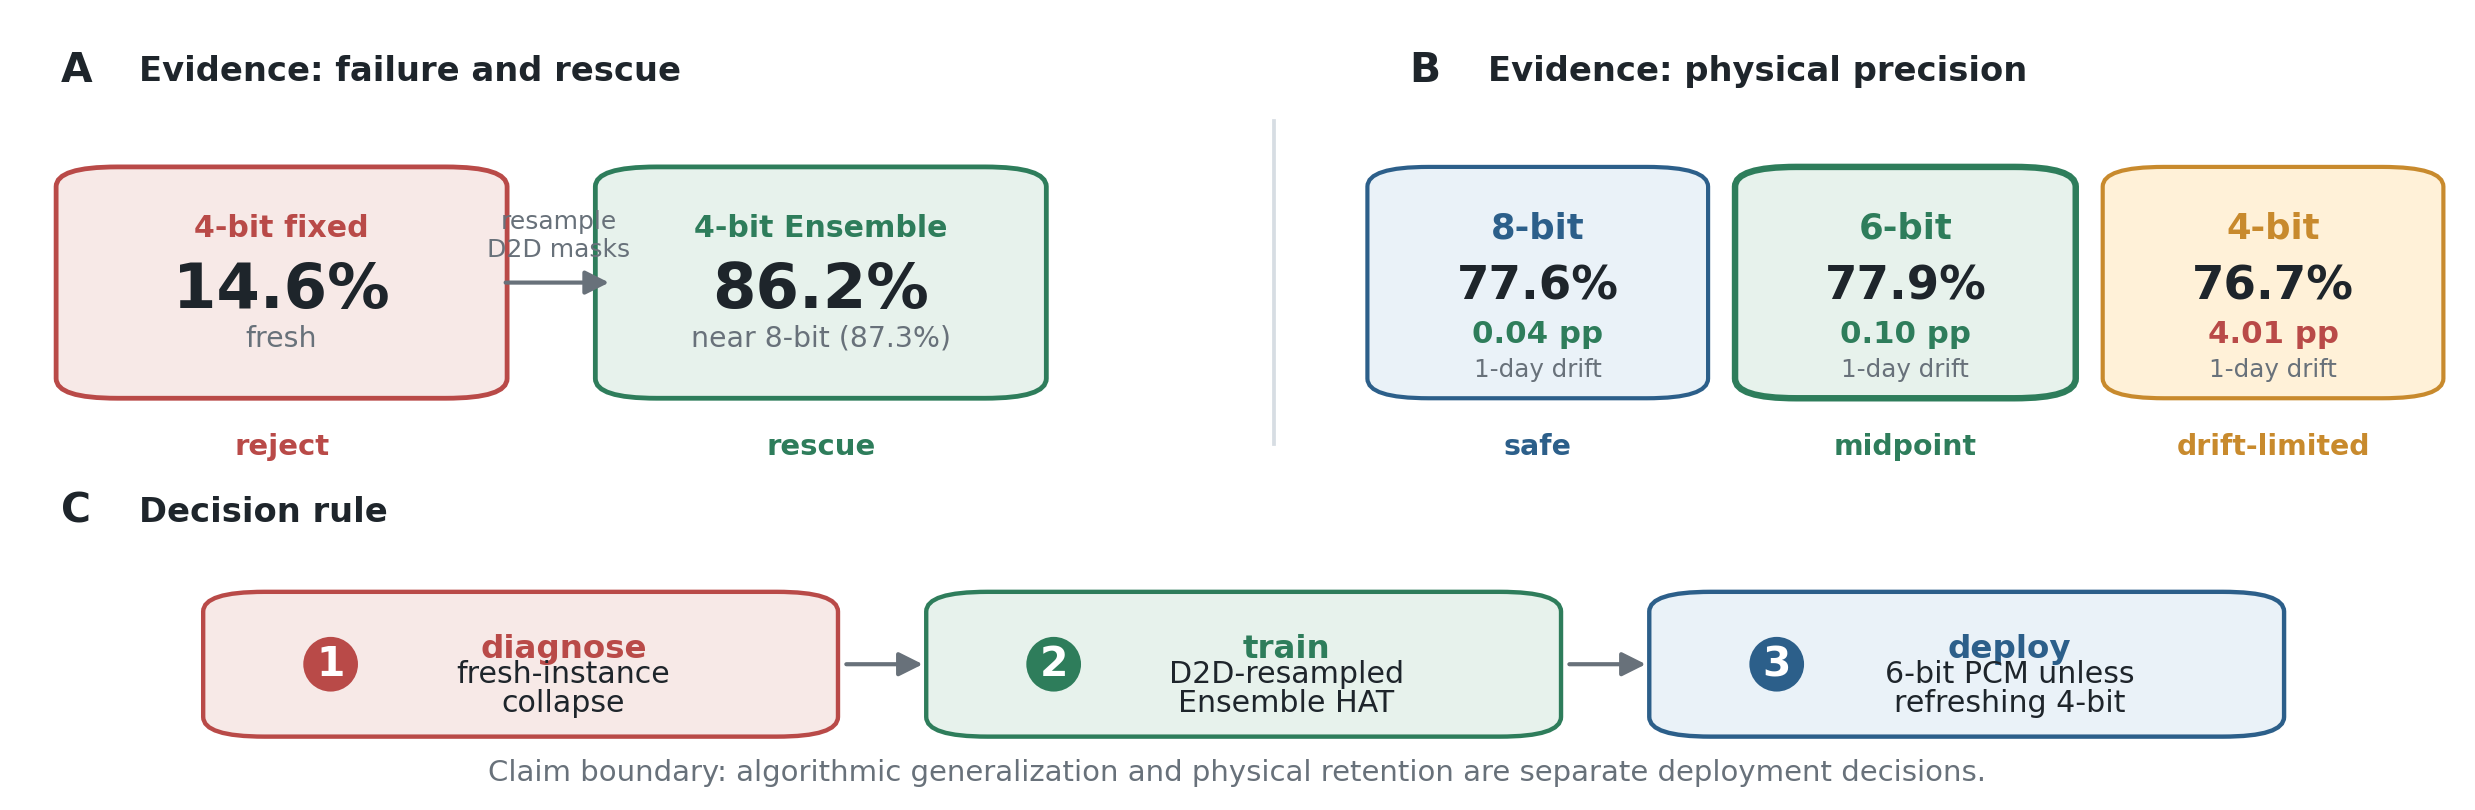
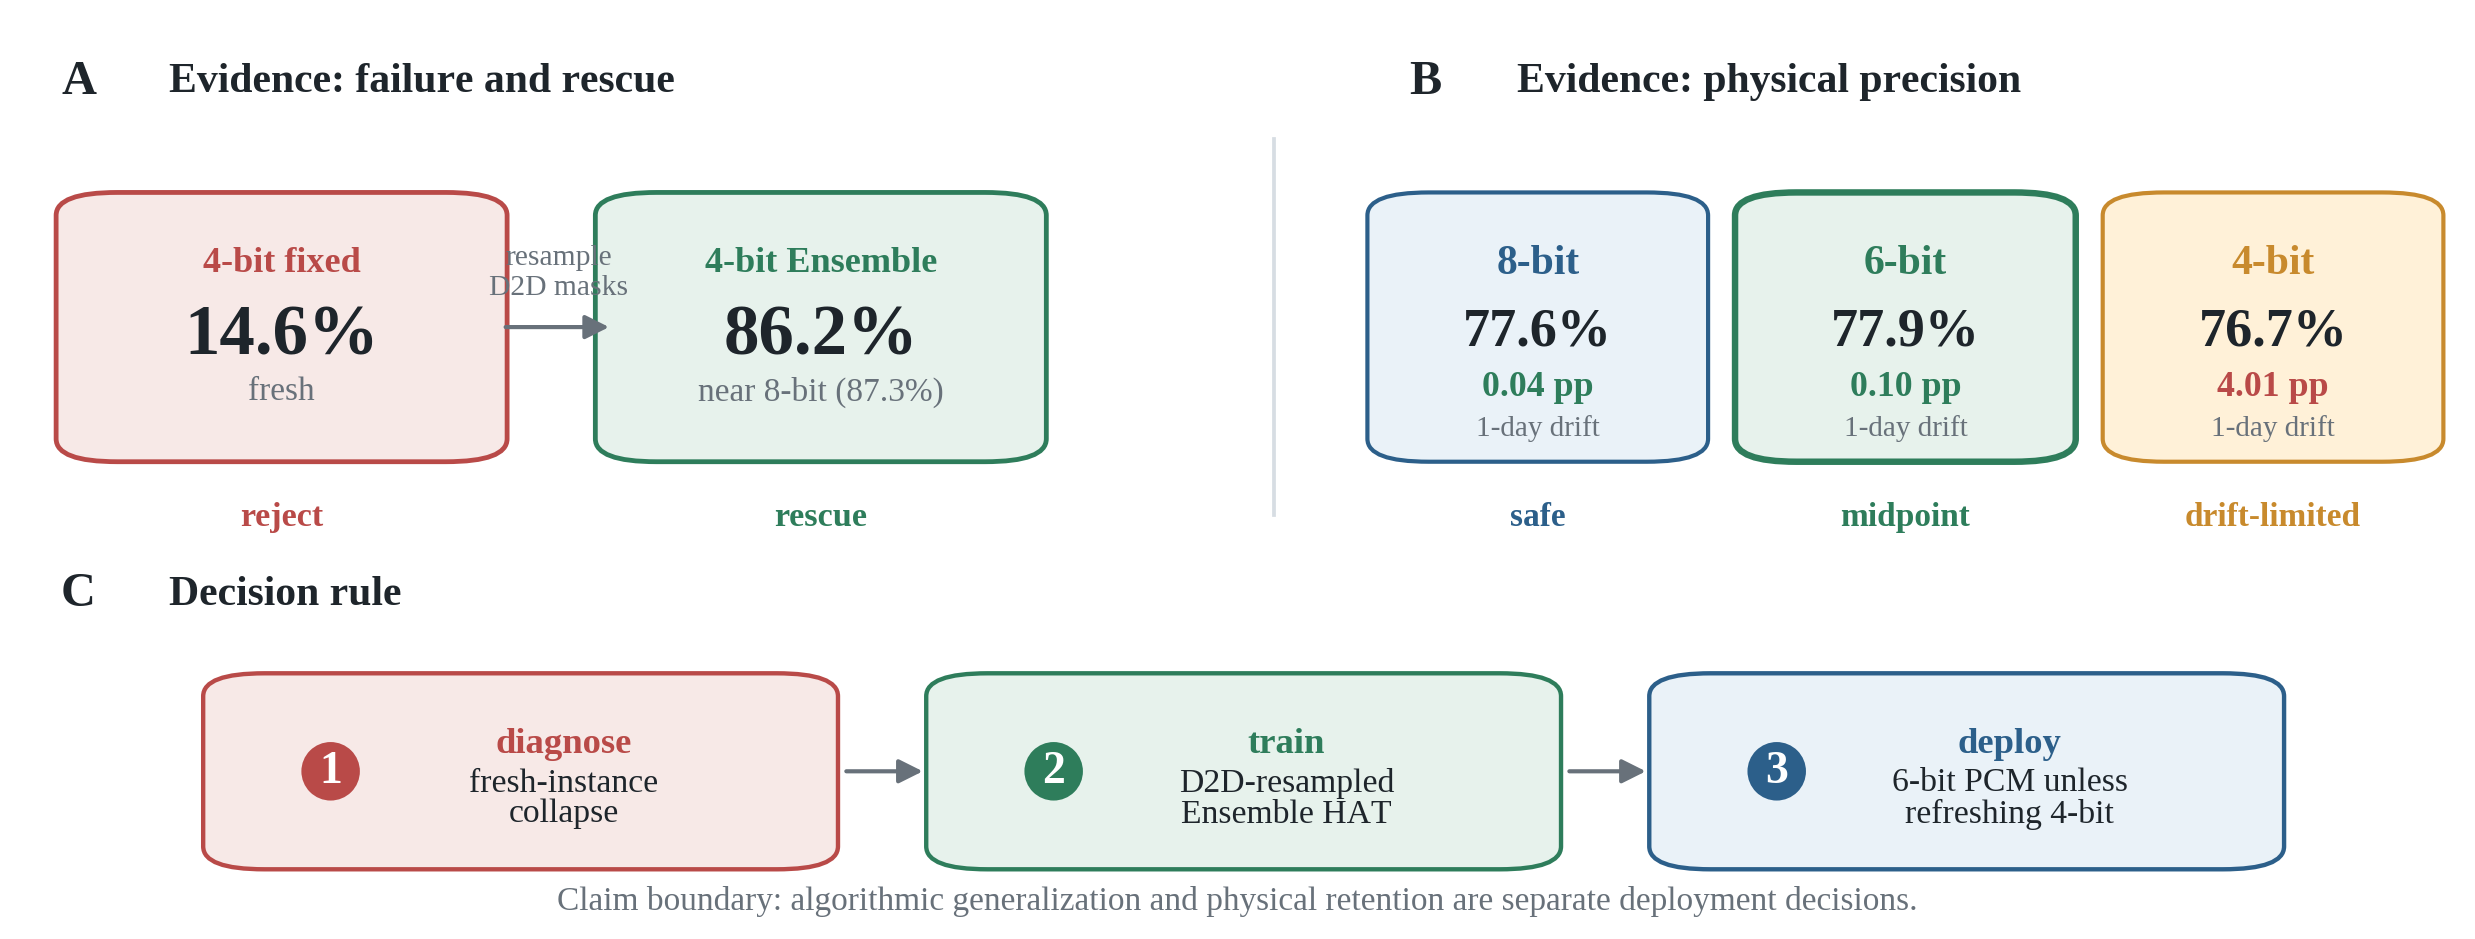
docs(paper1): enlarge main figure typography

diff --git a/scripts/_gpt/plot_paper1_spine.py b/scripts/_gpt/plot_paper1_spine.py
@@ -9,12 +9,17 @@ from pathlib import Path
 
 import matplotlib.pyplot as plt
 import numpy as np
+from matplotlib import font_manager
 from matplotlib.patches import FancyArrowPatch, FancyBboxPatch
 
 ROOT = Path(__file__).resolve().parents[2]
 FIG_DIR = ROOT / "paper" / "latex_gpt" / "figures"
 SRC_DIR = ROOT / "paper" / "latex_gpt" / "source_data"
 CKPT = ROOT / "paper2_aihwkit_baseline" / "checkpoints"
+TINOS_DIR = Path("/usr/share/fonts/truetype/croscore")
+
+for font_file in TINOS_DIR.glob("Tinos-*.ttf"):
+    font_manager.fontManager.addfont(str(font_file))
 
 FIG_DIR.mkdir(parents=True, exist_ok=True)
 SRC_DIR.mkdir(parents=True, exist_ok=True)
@@ -143,12 +148,14 @@ with (SRC_DIR / "manifest_paper1_spine.json").open("w", encoding="utf-8") as han
 
 plt.rcParams.update(
     {
-        "font.family": "DejaVu Sans",
-        "font.size": 8.0,
-        "axes.labelsize": 8.0,
-        "axes.titlesize": 8.4,
-        "xtick.labelsize": 7.2,
-        "ytick.labelsize": 7.2,
+        "font.family": "Tinos",
+        "font.serif": ["Tinos", "Times New Roman", "Nimbus Roman", "Liberation Serif", "DejaVu Serif"],
+        "mathtext.fontset": "stix",
+        "font.size": 9.2,
+        "axes.labelsize": 9.8,
+        "axes.titlesize": 10.0,
+        "xtick.labelsize": 8.7,
+        "ytick.labelsize": 8.7,
         "axes.linewidth": 0.75,
         "pdf.fonttype": 42,
         "ps.fonttype": 42,
@@ -157,8 +164,8 @@ plt.rcParams.update(
 
 
 def panel_header(ax, label: str, title: str, y: float = 1.04) -> None:
-    ax.text(0.0, y, label, transform=ax.transAxes, ha="left", va="bottom", fontsize=9.6, fontweight="bold", color=COL["ink"])
-    ax.text(0.075, y + 0.004, title, transform=ax.transAxes, ha="left", va="bottom", fontsize=8.1, fontweight="bold", color=COL["ink"])
+    ax.text(0.0, y, label, transform=ax.transAxes, ha="left", va="bottom", fontsize=11.3, fontweight="bold", color=COL["ink"])
+    ax.text(0.14, y + 0.004, title, transform=ax.transAxes, ha="left", va="bottom", fontsize=9.8, fontweight="bold", color=COL["ink"])
 
 
 def box(ax, x: float, y: float, w: float, h: float, text: str, fc: str, ec: str, fs: float = 7.5, weight: str = "bold") -> None:
@@ -195,7 +202,7 @@ def style_axis(ax) -> None:
     ax.tick_params(length=3, width=0.7, color=COL["ink"], labelcolor=COL["ink"])
 
 
-fig = plt.figure(figsize=(8.6, 3.05), facecolor="white")
+fig = plt.figure(figsize=(8.6, 3.65), facecolor="white")
 gs = fig.add_gridspec(1, 3, width_ratios=[1.42, 1.0, 1.0], wspace=0.36)
 ax_a = fig.add_subplot(gs[0, 0])
 ax_b = fig.add_subplot(gs[0, 1])
@@ -212,24 +219,24 @@ row_y = [0.62, 0.25]
 row_name = [("Fixed-mask HAT", COL["red"]), ("D2D-resampled HAT", COL["green"])]
 for idx, y in enumerate(row_y):
     label, color = row_name[idx]
-    ax_a.text(0.06, y + 0.205, label, ha="left", va="center", fontsize=7.5, color=color, fontweight="bold")
-    box(ax_a, 0.06, y, 0.18, 0.15, "digital\nweights", COL["gray_fill"], "#9DA5AD", fs=7.1)
+    ax_a.text(0.06, y + 0.205, label, ha="left", va="center", fontsize=8.8, color=color, fontweight="bold")
+    box(ax_a, 0.06, y, 0.18, 0.15, "digital\nweights", COL["gray_fill"], "#9DA5AD", fs=8.6)
     arrow(ax_a, 0.245, y + 0.075, 0.315, y + 0.075)
     if idx == 0:
-        box(ax_a, 0.32, y, 0.15, 0.15, "$M_0$", COL["red_fill"], COL["red"], fs=9.0)
+        box(ax_a, 0.32, y, 0.15, 0.15, "$M_0$", COL["red_fill"], COL["red"], fs=10.6)
         arrow(ax_a, 0.475, y + 0.075, 0.555, y + 0.075, color=COL["red"])
-        box(ax_a, 0.56, y, 0.18, 0.15, "fresh\nchip", COL["gold_fill"], COL["gold"], fs=7.1)
-        ax_a.text(0.78, y + 0.075, "fail", ha="left", va="center", fontsize=7.2, color=COL["red"], fontweight="bold")
+        box(ax_a, 0.56, y, 0.18, 0.15, "fresh\nchip", COL["gold_fill"], COL["gold"], fs=8.6)
+        ax_a.text(0.78, y + 0.075, "fail", ha="left", va="center", fontsize=8.3, color=COL["red"], fontweight="bold")
     else:
         for k, x0 in enumerate([0.305, 0.385, 0.465]):
-            box(ax_a, x0, y, 0.060, 0.15, f"$M_{k+1}$", COL["green_fill"], COL["green"], fs=7.0)
-        ax_a.text(0.535, y + 0.075, "$\cdots$", ha="center", va="center", fontsize=10.5, color=COL["green"])
+            box(ax_a, x0, y, 0.060, 0.15, f"$M_{k+1}$", COL["green_fill"], COL["green"], fs=8.2)
+        ax_a.text(0.535, y + 0.075, "$\cdots$", ha="center", va="center", fontsize=12.0, color=COL["green"])
         arrow(ax_a, 0.56, y + 0.075, 0.615, y + 0.075, color=COL["green"])
-        box(ax_a, 0.62, y, 0.18, 0.15, "fresh\nchip", COL["gold_fill"], COL["gold"], fs=7.1)
-        ax_a.text(0.835, y + 0.075, "pass", ha="left", va="center", fontsize=7.2, color=COL["green"], fontweight="bold")
+        box(ax_a, 0.62, y, 0.18, 0.15, "fresh\nchip", COL["gold_fill"], COL["gold"], fs=8.6)
+        ax_a.text(0.835, y + 0.075, "pass", ha="left", va="center", fontsize=8.3, color=COL["green"], fontweight="bold")
 
 ax_a.plot([0.02, 0.97], [0.50, 0.50], color=COL["rule"], linewidth=0.7)
-ax_a.text(0.06, 0.065, "Training distribution changes across hardware instances.", ha="left", va="center", fontsize=6.8, color=COL["muted"])
+ax_a.text(0.06, 0.065, "Train over hardware-instance distribution.", ha="left", va="center", fontsize=8.1, color=COL["muted"])
 
 # Panel B: failure/rescue data.
 labels = ["8-bit\nideal", "4-bit\nfixed", "4-bit\nEnsemble"]
@@ -245,7 +252,7 @@ ax_b.set_xticks(x)
 ax_b.set_xticklabels(labels)
 ax_b.axhline(10, color=COL["muted"], linestyle=(0, (1, 2)), linewidth=0.8)
 for i, v in enumerate(means):
-    ax_b.text(i, v + 3.0, f"{v:.1f}", ha="center", va="bottom", fontsize=7.6, fontweight="bold", color=COL["ink"])
+    ax_b.text(i, v + 3.0, f"{v:.1f}", ha="center", va="bottom", fontsize=8.8, fontweight="bold", color=COL["ink"])
 style_axis(ax_b)
 
 # Panel C: PCM precision/retention frontier.
@@ -264,7 +271,7 @@ ax_c.set_ylim(75.6, 79.2)
 ax_c.set_xticks(x2)
 ax_c.set_xticklabels(labels_pcm)
 for i, v in enumerate(fresh):
-    ax_c.text(i, v + 0.20, f"{v:.1f}", ha="center", va="bottom", fontsize=7.4, fontweight="bold", color=COL["ink"])
+    ax_c.text(i, v + 0.20, f"{v:.1f}", ha="center", va="bottom", fontsize=8.7, fontweight="bold", color=COL["ink"])
 style_axis(ax_c)
 
 ax_d = ax_c.twinx()
@@ -275,7 +282,7 @@ ax_d.tick_params(axis="y", colors="#7B2D2C", labelsize=7.0, length=3, width=0.7)
 ax_d.spines[["top"]].set_visible(False)
 for i, v in enumerate(drift):
     dy = 0.14 if v < 1 else 0.18
-    ax_d.text(i, v + dy, f"{v:.2f}", ha="center", va="bottom", fontsize=7.0, color="#7B2D2C", fontweight="bold")
+    ax_d.text(i, v + dy, f"{v:.2f}", ha="center", va="bottom", fontsize=8.6, color="#7B2D2C", fontweight="bold")
 
 for ext in ["pdf", "png"]:
     fig.savefig(FIG_DIR / f"fig1_paper1_spine.{ext}", dpi=300, bbox_inches="tight", pad_inches=0.04)

diff --git a/scripts/_gpt/plot_paper1_decision_map.py b/scripts/_gpt/plot_paper1_decision_map.py
@@ -7,13 +7,18 @@ import csv
 from pathlib import Path
 
 import matplotlib.pyplot as plt
+from matplotlib import font_manager
 from matplotlib.patches import FancyArrowPatch, FancyBboxPatch
 
 ROOT = Path(__file__).resolve().parents[2]
 FIG_DIR = ROOT / "paper" / "latex_gpt" / "figures"
 SRC_DIR = ROOT / "paper" / "latex_gpt" / "source_data"
+TINOS_DIR = Path("/usr/share/fonts/truetype/croscore")
 FIG_DIR.mkdir(parents=True, exist_ok=True)
 SRC_DIR.mkdir(parents=True, exist_ok=True)
+
+for font_file in TINOS_DIR.glob("Tinos-*.ttf"):
+    font_manager.fontManager.addfont(str(font_file))
 
 COL = {
     "ink": "#1E252B",
@@ -71,8 +76,10 @@ with (SRC_DIR / "fig2_paper1_decision_map.csv").open("w", newline="", encoding="
 
 plt.rcParams.update(
     {
-        "font.family": "DejaVu Sans",
-        "font.size": 8.0,
+        "font.family": "Tinos",
+        "font.serif": ["Tinos", "Times New Roman", "Nimbus Roman", "Liberation Serif", "DejaVu Serif"],
+        "mathtext.fontset": "stix",
+        "font.size": 9.8,
         "axes.linewidth": 0.75,
         "pdf.fonttype": 42,
         "ps.fonttype": 42,
@@ -81,8 +88,8 @@ plt.rcParams.update(
 
 
 def panel_header(ax, label: str, title: str, x: float, y: float) -> None:
-    ax.text(x, y, label, ha="left", va="bottom", fontsize=9.8, fontweight="bold", color=COL["ink"])
-    ax.text(x + 0.032, y + 0.003, title, ha="left", va="bottom", fontsize=8.1, fontweight="bold", color=COL["ink"])
+    ax.text(x, y, label, ha="left", va="bottom", fontsize=11.6, fontweight="bold", color=COL["ink"])
+    ax.text(x + 0.044, y + 0.003, title, ha="left", va="bottom", fontsize=10.0, fontweight="bold", color=COL["ink"])
 
 
 def box(ax, x: float, y: float, w: float, h: float, fc: str, ec: str, lw: float = 0.95) -> None:
@@ -119,7 +126,7 @@ pcm_8 = pcm["8-bit PCM"]
 pcm_6 = pcm["6-bit PCM"]
 pcm_4 = pcm["4-bit PCM"]
 
-fig, ax = plt.subplots(figsize=(8.6, 3.05), facecolor="white")
+fig, ax = plt.subplots(figsize=(8.6, 3.55), facecolor="white")
 ax.set_axis_off()
 ax.set_xlim(0, 1)
 ax.set_ylim(0, 1)
@@ -138,12 +145,12 @@ cards = [
 ]
 for x, title, number, sub, footer, color, fill in cards:
     box(ax, x, card_y, card_w, card_h, fill, color, lw=1.15)
-    ax.text(x + card_w / 2, card_y + 0.205, title, ha="center", va="center", fontsize=7.2, fontweight="bold", color=color)
-    ax.text(x + card_w / 2, card_y + 0.125, number, ha="center", va="center", fontsize=15.0, fontweight="bold", color=COL["ink"])
-    ax.text(x + card_w / 2, card_y + 0.065, sub, ha="center", va="center", fontsize=6.8, color=COL["muted"])
-    ax.text(x + card_w / 2, card_y - 0.055, footer, ha="center", va="top", fontsize=7.0, fontweight="bold", color=color)
+    ax.text(x + card_w / 2, card_y + 0.205, title, ha="center", va="center", fontsize=8.7, fontweight="bold", color=color)
+    ax.text(x + card_w / 2, card_y + 0.125, number, ha="center", va="center", fontsize=17.0, fontweight="bold", color=COL["ink"])
+    ax.text(x + card_w / 2, card_y + 0.065, sub, ha="center", va="center", fontsize=8.0, color=COL["muted"])
+    ax.text(x + card_w / 2, card_y - 0.055, footer, ha="center", va="top", fontsize=8.2, fontweight="bold", color=color)
 arrow(ax, 0.198, card_y + card_h / 2, 0.247, card_y + card_h / 2)
-ax.text(0.223, card_y + card_h / 2 + 0.060, "resample\nD2D masks", ha="center", va="center", fontsize=6.0, color=COL["muted"])
+ax.text(0.223, card_y + card_h / 2 + 0.060, "resample\nD2D masks", ha="center", va="center", fontsize=7.1, color=COL["muted"])
 
 precision_cards = [
     (0.565, "8-bit", pcm_8, COL["blue"], COL["blue_fill"], "safe"),
@@ -155,20 +162,20 @@ for x, label, row, color, fill, role in precision_cards:
     box(ax, x, card_y, w, card_h, fill, color, lw=1.55 if label == "6-bit" else 1.0)
     fresh = float(row["fresh_mean"])
     drift = float(row["drift_drop_1d_pp"])
-    ax.text(x + w / 2, card_y + 0.205, label, ha="center", va="center", fontsize=8.5, fontweight="bold", color=color)
-    ax.text(x + w / 2, card_y + 0.130, f"{fresh:.1f}%", ha="center", va="center", fontsize=11.2, fontweight="bold", color=COL["ink"])
+    ax.text(x + w / 2, card_y + 0.205, label, ha="center", va="center", fontsize=10.0, fontweight="bold", color=color)
+    ax.text(x + w / 2, card_y + 0.130, f"{fresh:.1f}%", ha="center", va="center", fontsize=13.0, fontweight="bold", color=COL["ink"])
     drift_color = COL["red"] if drift > 1.0 else COL["green"]
-    ax.text(x + w / 2, card_y + 0.070, f"{drift:.2f} pp", ha="center", va="center", fontsize=7.4, fontweight="bold", color=drift_color)
-    ax.text(x + w / 2, card_y + 0.025, "1-day drift", ha="center", va="center", fontsize=5.9, color=COL["muted"])
-    ax.text(x + w / 2, card_y - 0.055, role, ha="center", va="top", fontsize=6.8, fontweight="bold", color=color)
+    ax.text(x + w / 2, card_y + 0.070, f"{drift:.2f} pp", ha="center", va="center", fontsize=8.6, fontweight="bold", color=drift_color)
+    ax.text(x + w / 2, card_y + 0.025, "1-day drift", ha="center", va="center", fontsize=7.0, color=COL["muted"])
+    ax.text(x + w / 2, card_y - 0.055, role, ha="center", va="top", fontsize=8.0, fontweight="bold", color=color)
 
 # Vertical divider.
 ax.plot([0.515, 0.515], [0.45, 0.86], color=COL["rule"], linewidth=0.9)
 
 # Panel C: decision rule chain.
 panel_header(ax, "C", "Decision rule", 0.02, 0.34)
-rule_y = 0.09
-rule_h = 0.16
+rule_y = 0.075
+rule_h = 0.19
 rule_w = 0.235
 steps = [
     (0.090, "1", "diagnose", "fresh-instance\ncollapse", COL["red"], COL["red_fill"]),
@@ -177,13 +184,13 @@ steps = [
 ]
 for i, (x, num, head, body, color, fill) in enumerate(steps):
     box(ax, x, rule_y, rule_w, rule_h, fill, color, lw=1.05)
-    ax.text(x + 0.040, rule_y + rule_h / 2, num, ha="center", va="center", fontsize=9.8, fontweight="bold", color="white", bbox={"boxstyle": "circle,pad=0.18", "facecolor": color, "edgecolor": "none"})
-    ax.text(x + 0.135, rule_y + 0.100, head, ha="center", va="center", fontsize=7.8, fontweight="bold", color=color)
-    ax.text(x + 0.135, rule_y + 0.050, body, ha="center", va="center", fontsize=7.2, color=COL["ink"], linespacing=1.0)
+    ax.text(x + 0.040, rule_y + rule_h / 2, num, ha="center", va="center", fontsize=11.0, fontweight="bold", color="white", bbox={"boxstyle": "circle,pad=0.18", "facecolor": color, "edgecolor": "none"})
+    ax.text(x + 0.135, rule_y + 0.125, head, ha="center", va="center", fontsize=8.8, fontweight="bold", color=color)
+    ax.text(x + 0.135, rule_y + 0.066, body, ha="center", va="center", fontsize=8.1, color=COL["ink"], linespacing=1.0)
     if i < 2:
         arrow(ax, x + rule_w + 0.012, rule_y + rule_h / 2, x + 0.285, rule_y + rule_h / 2)
 
-ax.text(0.50, 0.015, "Claim boundary: algorithmic generalization and physical retention are separate deployment decisions.", ha="center", va="bottom", fontsize=7.0, color=COL["muted"])
+ax.text(0.50, 0.012, "Claim boundary: algorithmic generalization and physical retention are separate deployment decisions.", ha="center", va="bottom", fontsize=8.0, color=COL["muted"])
 
 for ext in ["pdf", "png"]:
     fig.savefig(FIG_DIR / f"fig2_paper1_decision_map.{ext}", bbox_inches="tight", pad_inches=0.04, dpi=300)

diff --git a/report_md/_gpt/CODEX_MAIN_FIGURE_FONT_PASS_20260502.md b/report_md/_gpt/CODEX_MAIN_FIGURE_FONT_PASS_20260502.md
@@ -1,0 +1,67 @@
+# Codex Main-Figure Font Pass — 2026-05-02
+
+## Reason
+
+Main-text figure proportions were fixed in the previous pass, but inserted-PDF figure text was still too small for comfortable reading. The figure font also needed to be explicitly Times-compatible rather than relying on Matplotlib fallback behavior.
+
+## Changes
+
+Files updated:
+
+- `scripts/_gpt/plot_paper1_spine.py`
+- `scripts/_gpt/plot_paper1_decision_map.py`
+- `paper/latex_gpt/figures/fig1_paper1_spine.pdf/png`
+- `paper/latex_gpt/figures/fig2_paper1_decision_map.pdf/png`
+- `paper/latex_gpt/main.pdf`
+
+Specific changes:
+
+1. Forced Matplotlib to load the system Tinos font files from `/usr/share/fonts/truetype/croscore/Tinos-*.ttf`.
+2. Set figure font family to `Tinos`, a Times-compatible serif family.
+3. Kept math text on STIX for clean math symbols.
+4. Increased figure height and text size for main-text readability.
+5. Kept key labels and numerical callouts bold.
+6. Rebalanced Fig.2 decision-rule text to avoid overlap after font enlargement.
+
+## Font Verification
+
+```bash
+pdffonts paper/latex_gpt/figures/fig1_paper1_spine.pdf
+pdffonts paper/latex_gpt/figures/fig2_paper1_decision_map.pdf
+pdffonts paper/latex_gpt/main.pdf | rg "Tinos|STIX|DejaVu|name"
+```
+
+Observed embedded fonts:
+
+- `Tinos`
+- `Tinos-Bold`
+- `STIXGeneral-Regular`
+- `STIXGeneral-Italic`
+
+No DejaVu figure font remains in the main figure PDFs.
+
+## Visual QA
+
+Rendered pages 3-4 from the main PDF at 180 dpi. Result:
+
+- Fig.1 text is larger and readable after insertion into the manuscript.
+- Fig.2 card text and decision-rule text remain inside boxes.
+- Panel labels, titles, key values, and axis labels are bold/readable.
+
+## Verification
+
+```bash
+latexmk -pdf -interaction=nonstopmode -halt-on-error main.tex
+rg -n "Undefined|undefined|Reference .*undefined|Citation .*undefined|There were undefined|multiply defined|Overfull|Underfull|Warning" paper/latex_gpt/main.log || true
+python scripts/_gpt/check_locked_numbers.py
+python scripts/_gpt/check_local_pcm_precision_ladder.py
+python -m py_compile scripts/_gpt/plot_paper1_spine.py scripts/_gpt/plot_paper1_decision_map.py
+```
+
+Results:
+
+- Main compile: PASS
+- Critical log scan: PASS
+- Locked-number guard: 22/22 PASS
+- PCM precision-ladder guard: PASS
+- Figure scripts compile: PASS